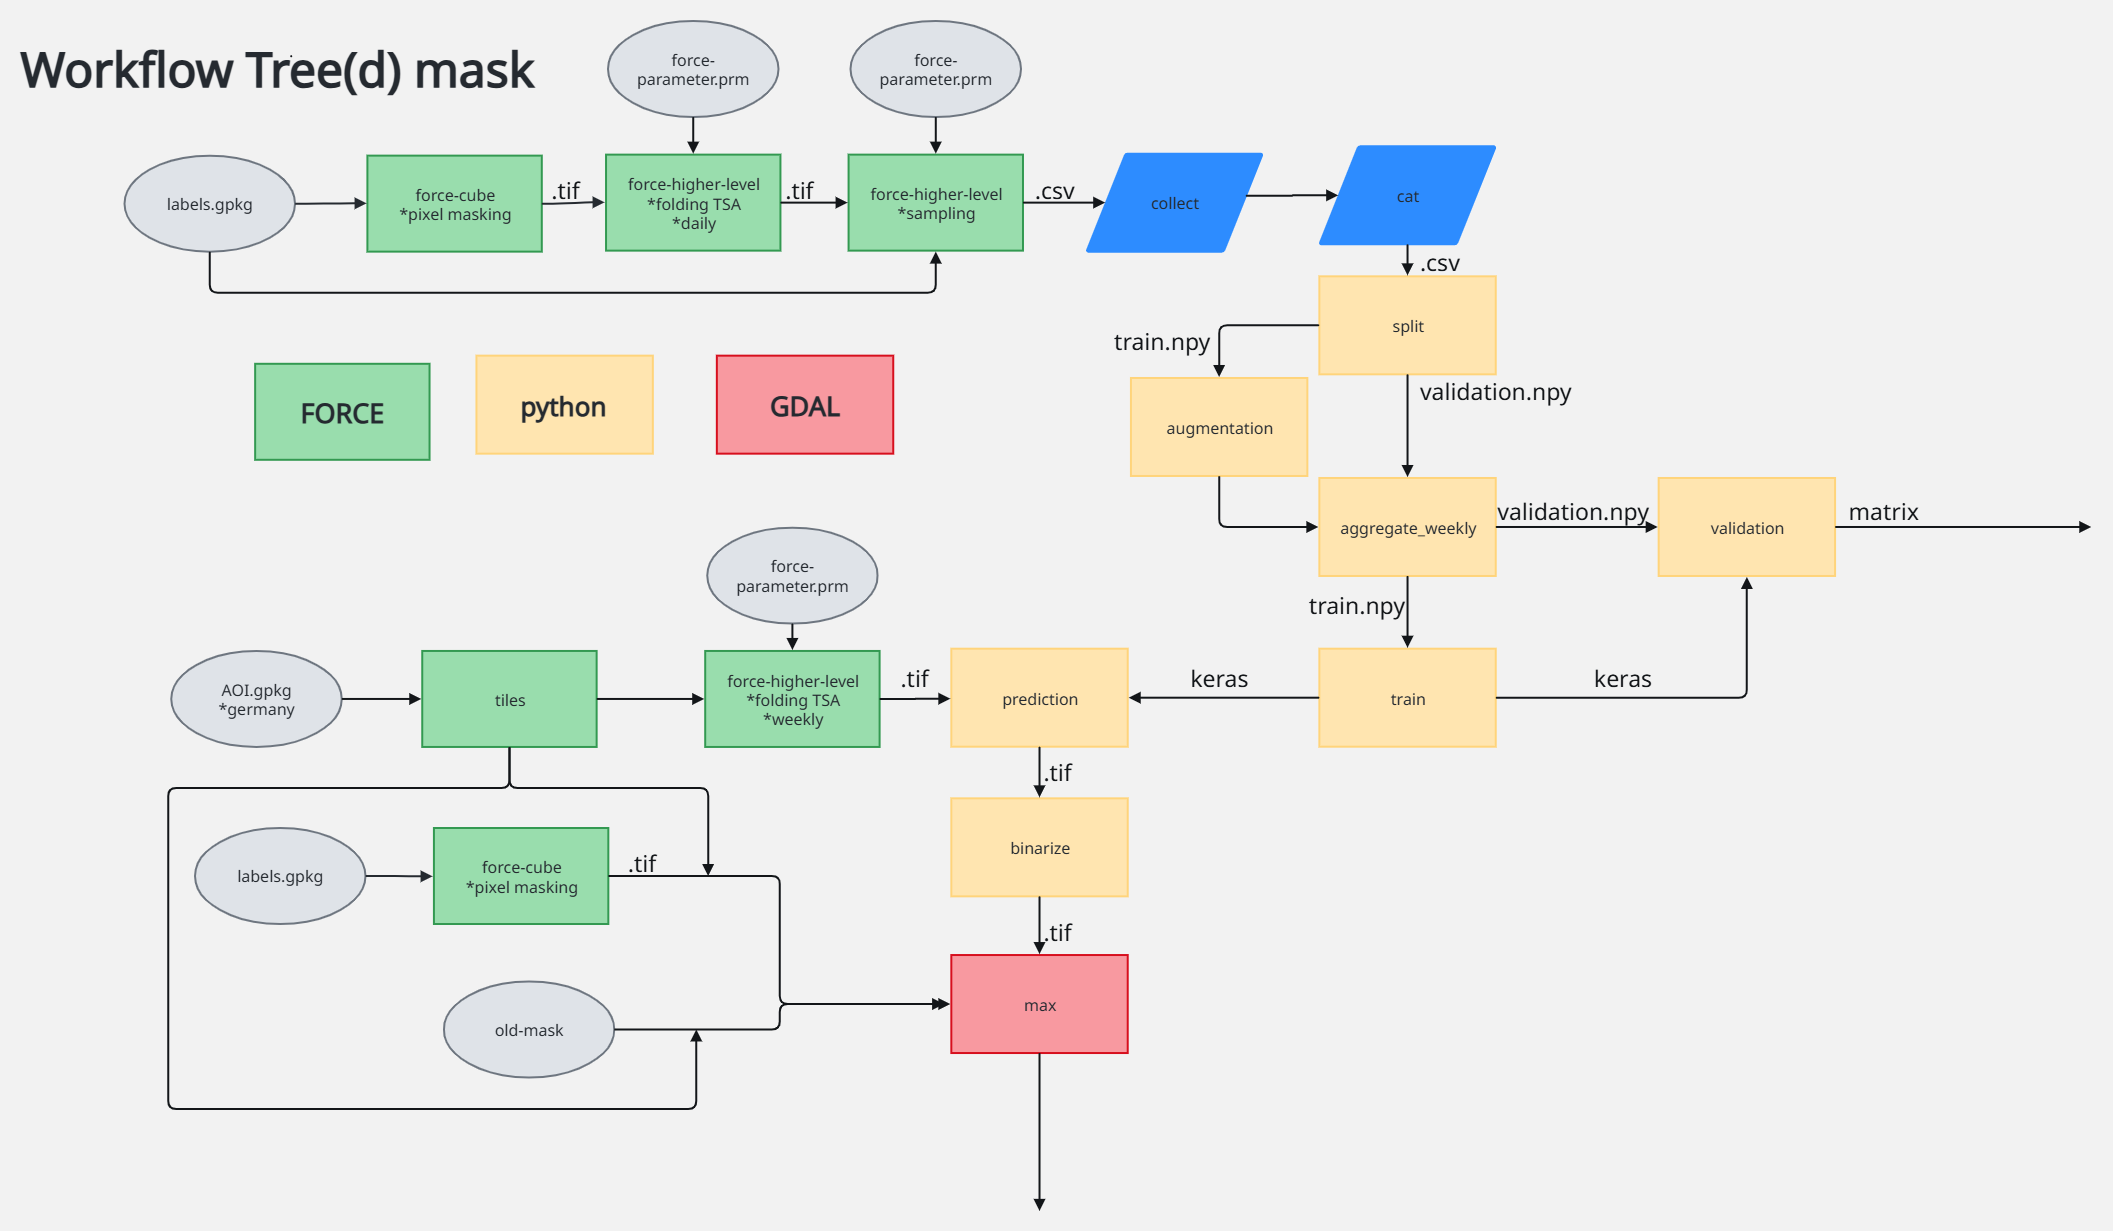
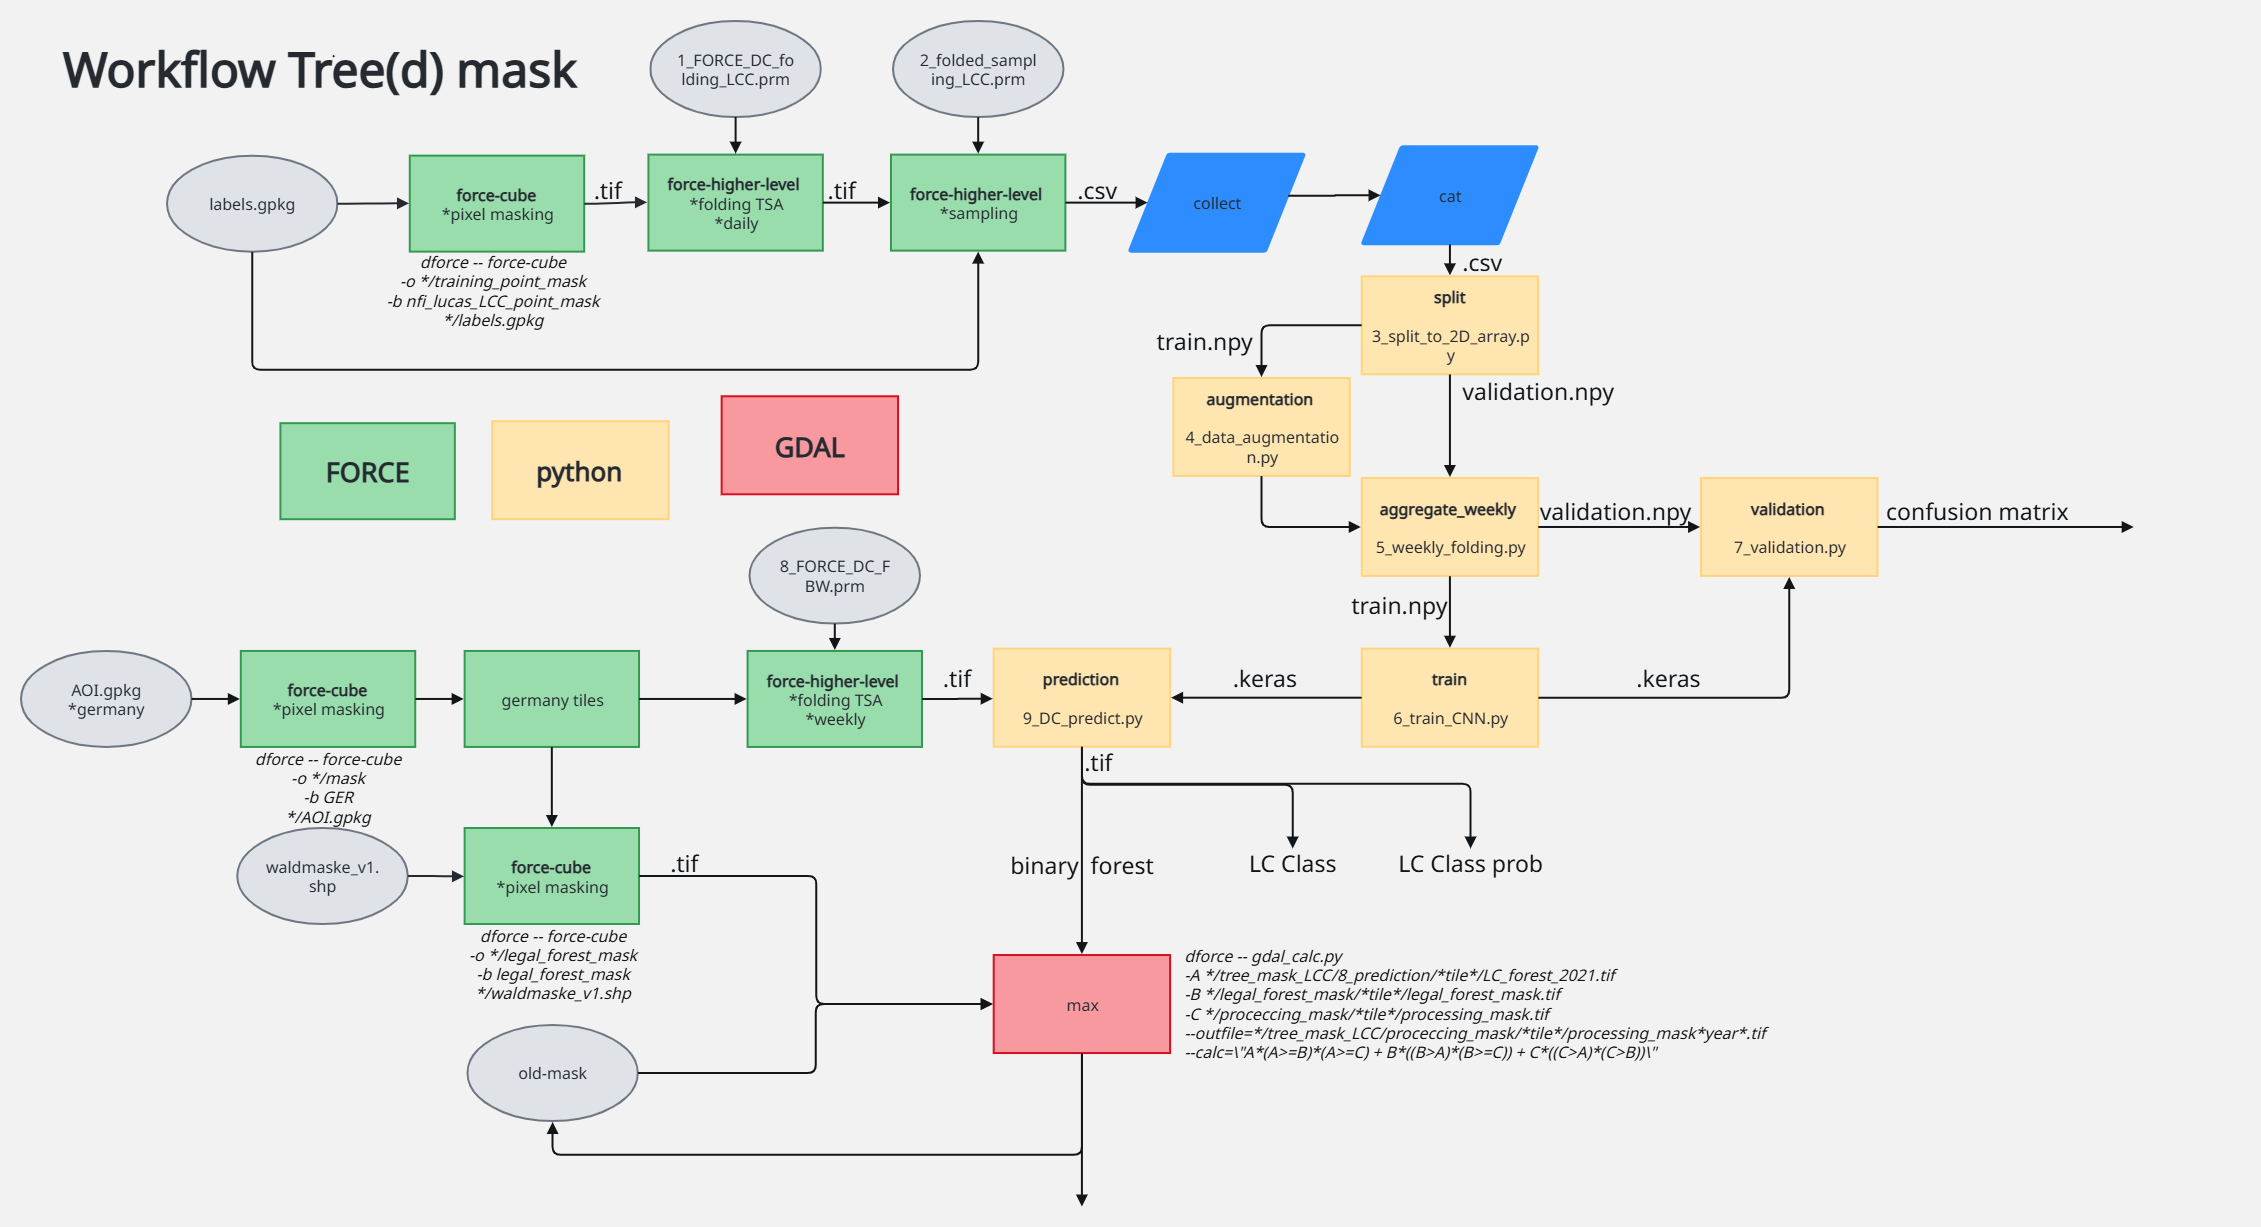
new Workflow and some code changes

diff --git a/src/7_validation.py b/src/7_validation.py
@@ -13,7 +13,7 @@ def norm(a):
     return a_out
 
 # load model
-model_number = 1
+model_number = 2
 model_path = os.path.join(args.working_directory, '6_trained_model','version' +str(model_number), 'saved_model'+ str(model_number)+ '.keras')
 model = tf.keras.models.load_model(model_path)
 
@@ -53,7 +53,7 @@ n_classes = len(classes)
 if not os.path.exists( os.path.join(args.working_directory, '7_validation') ):
     os.makedirs(os.path.join(args.working_directory, '7_validation') ) 
 
-with open(os.path.join(args.working_directory,"7_validation","confusion_matrix_report.txt"), "w") as f:
+with open(os.path.join(args.working_directory,"7_validation","confusion_matrix_report2.txt"), "w") as f:
     f.write(f"Overall Accuracy: {overall_accuracy:.4f}\n\n")
     # Header
     header = "{:<16}".format(" ") + "".join(["{:>12}".format(c[:10]) for c in classes])
@@ -68,37 +68,3 @@ with open(os.path.join(args.working_directory,"7_validation","confusion_matrix_r
             row += "{:>12}".format(confusion_matrix[i, j])
         row += "{:>17.2f}{:>17.2f}{:>17.2f}".format(sensitivity[i], precision[i], f1_score[i])
         f.write(row + "\n")
-
-#y_pred = y_pred.flatten()
-'''
-print(y_pred.shape)
-
-y_label = y_pred
-print(y_pred[0:100])
-y_label[y_label >= 0.5] = 1
-y_label[y_label< 0.5] = 0
-
-
-print(y_array[y_array == 0].shape[0])
-print(y_array[y_array == 1].shape[0])
-print(y_label.shape[0])
-
-tp = y_label[(y_array == 1) & (y_label == 1)].shape[0]
-fn = y_label[(y_array == 1) & (y_label == 0)].shape[0]
-
-tn = y_label[(y_array == 0) & (y_label == 0)].shape[0]
-fp = y_label[(y_array == 0) & (y_label == 1)].shape[0]
-
-print("                 Prediction                      ")
-print("            --------------------------------------")
-print("           |            Forest    Non-Forest        ")
-print("Validation | Forest     ", tp , "          ", fn , "    ", round(tp/(tp+fn)*100,3) )  
-print("           | Non-Forest   ",fp, "       "  , tn , "    ", round(tn/(fp+tn)*100,3) )
-print("")
-print("                        ", round(tp/(tp+fp)*100,3), "      ", round(tn/(fn+tn)*100,3))
-print('OA = ', round((tp+tn)/(tp+fp+fn+tn)*100,3))
-
-coord_array= np.load(os.path.join(args.working_directory, '3_train_test_data', 'test_coords.npy'))
-combined = np.column_stack((coord_array, y_array, y_label))
-np.savetxt(os.path.join(args.working_directory, '6_validation',"joined_array.txt"), combined, fmt="%.6f %.6f %d %d", header="x y label pred", comments='')
-'''

diff --git a/src/6_train_CNN.py b/src/6_train_CNN.py
@@ -77,7 +77,7 @@ def train(model_number):
     lr = 1e-3
     opt = tf.keras.optimizers.Adam(learning_rate=lr)
     train_index = list(range(y_train.shape[0]))
-    epochs = 100
+    epochs = 1000
     batch_size = 64
     iterations = int(y_train.shape[0]/batch_size)
     print(batch_size,iterations)
@@ -106,8 +106,11 @@ def train(model_number):
         with open(os.path.join(args.working_directory, '6_trained_model','version' +str(model_number),'performance.txt'), 'a') as file:
             file.write(f"{e};{np.mean(loss_train)};{lr}\n")
         random.shuffle(train_index)
-        #lr *= params['LEARNING_RATE_DECAY']
-        #opt.learning_raye = lr
+        if e % 100 == 0:
+            print('Save model at epoch: ', e)
+            model_path = os.path.join(args.working_directory, '6_trained_model','version' +str(model_number), 'saved_model'+ str(model_number)+'_epoch'+ str(e)+'.keras')
+            tf.keras.models.save_model(model, model_path)
+            print('Model is saved at ', model_path)
     if True:
         #model_path = os.path.join(args.working_directory, '6_trained_model','version' +str(model_number))
         model_path = os.path.join(args.working_directory, '6_trained_model','version' +str(model_number), 'saved_model'+ str(model_number)+ '.keras')
@@ -137,4 +140,4 @@ def train(model_number):
     print("Validation accuracy:", acc)
 
 if __name__ == '__main__':
-    train(2)
+    train(3)

diff --git a/README.md b/README.md
@@ -1,4 +1,4 @@
 # Tool for tree mask classification
 
 Here is a first workflow scratch for this task:
-![Workflow](images/Workflow_neu.png)
+![Workflow](images/Workflow.png)
